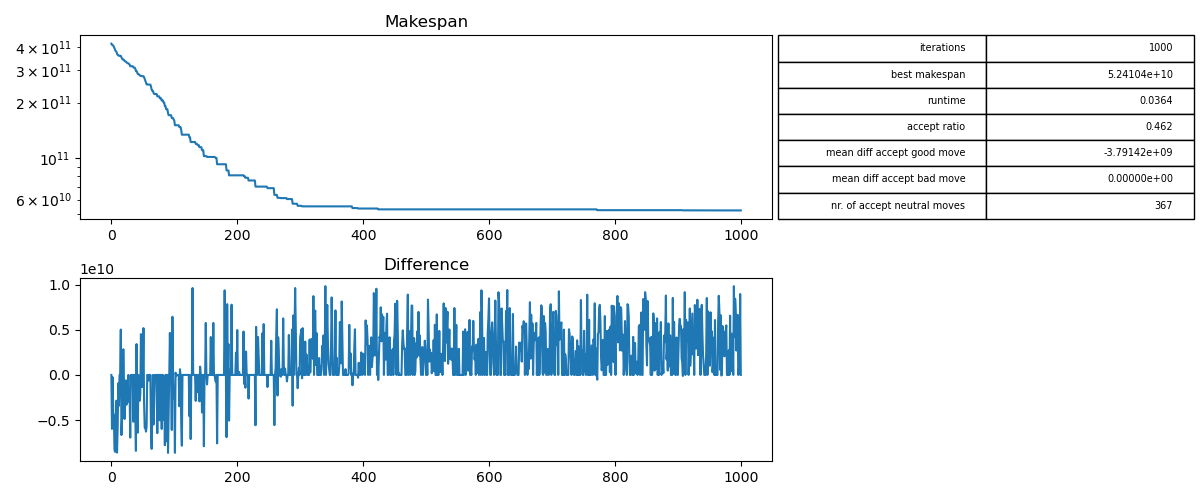
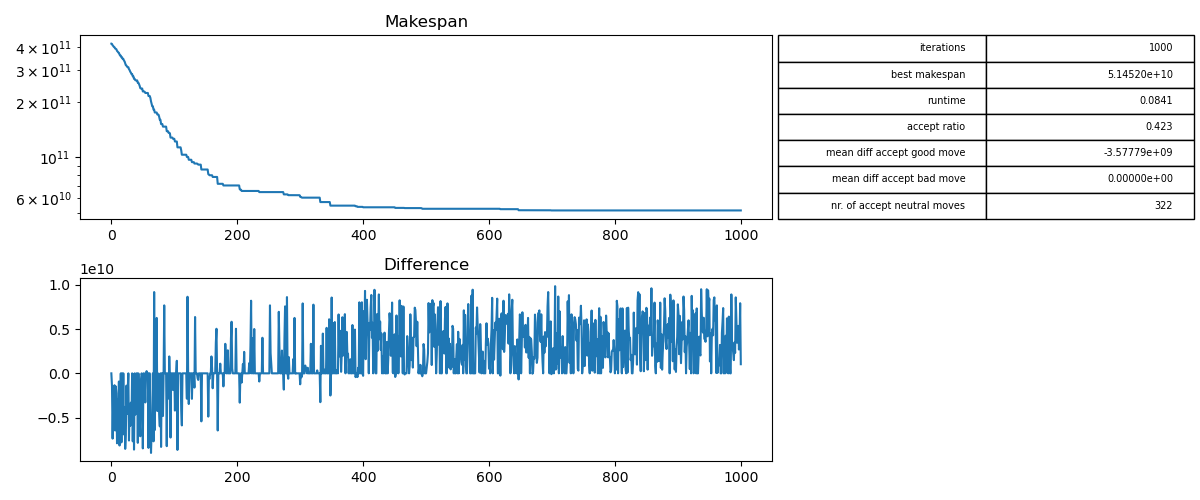
more results

diff --git a/simann/initial_state_comparison.py b/simann/initial_state_comparison.py
@@ -13,15 +13,16 @@ output_prefix = "./experiments/state_exp"
 # run experiments and save their result plots to file
 
 exp1 = instance.start(1000, localSearch, 0, 8e10, 4e12)
-exp1.plotResults("{}1.png".format(output_prefix))
 exp1.plotSchedule(instance, file_name="./experiments/state_exp1_schedule.png")
 
 exp2 = instance.start(1000, localSearch, 1, 8e10, 4e12)
 exp2.plotResults("{}2.png".format(output_prefix))
 
+exp3 = instance.start(10000, linearBadmoveAccept, 1, 8e10, 4e12)
+exp3.plotResults("{}4.png".format(output_prefix))
 
-exp3 = instance.start(10000, localSearch, 0, 8e10, 4e12)
-exp3.plotResults("{}3.png".format(output_prefix))
+exp4 = instance.start(100000, exponentialDecay, 1, 8e10, 4e12)
+exp4.plotResults("{}5.png".format(output_prefix))
 
-exp4 = instance.start(10000, localSearch, 1, 8e10, 4e12)
-exp4.plotResults("{}4.png".format(output_prefix))
+exp5 = instance.start(100000, exponentialDecayNonInc, 1, 8e10, 4e12)
+exp5.plotResults("{}6.png".format(output_prefix))

diff --git a/simann/data_comparison.py b/simann/data_comparison.py
@@ -20,8 +20,22 @@ exp2 = instance.start(1000, localSearch, 1, 8e10, 4e12)
 exp2.plotResults("{}2.png".format(output_prefix))
 
 
-exp3 = instance.start(10000, localSearch, 0, 8e10, 4e12)
+exp3 = instance.start(10000, linearBadmoveAccept, 0, 8e10, 4e12)
 exp3.plotResults("{}3.png".format(output_prefix))
 
-exp4 = instance.start(10000, localSearch, 1, 8e10, 4e12)
+exp4 = instance.start(10000, linearBadmoveAccept, 1, 8e10, 4e12)
 exp4.plotResults("{}4.png".format(output_prefix))
+
+
+exp6 = instance.start(100000, exponentialDecay, 1, 8e10, 4e12)
+exp6.plotResults("{}5.png".format(output_prefix))
+
+exp5 = instance.start(100000, exponentialDecay, 0, 8e10, 4e12)
+exp5.plotResults("{}5.png".format(output_prefix))
+
+
+exp7 = instance.start(100000, exponentialDecayNonInc, 0, 8e10, 4e12)
+exp7.plotResults("{}6.png".format(output_prefix))
+
+exp8 = instance.start(100000, exponentialDecayNonInc, 1, 8e10, 4e12)
+exp8.plotResults("{}6.png".format(output_prefix))
